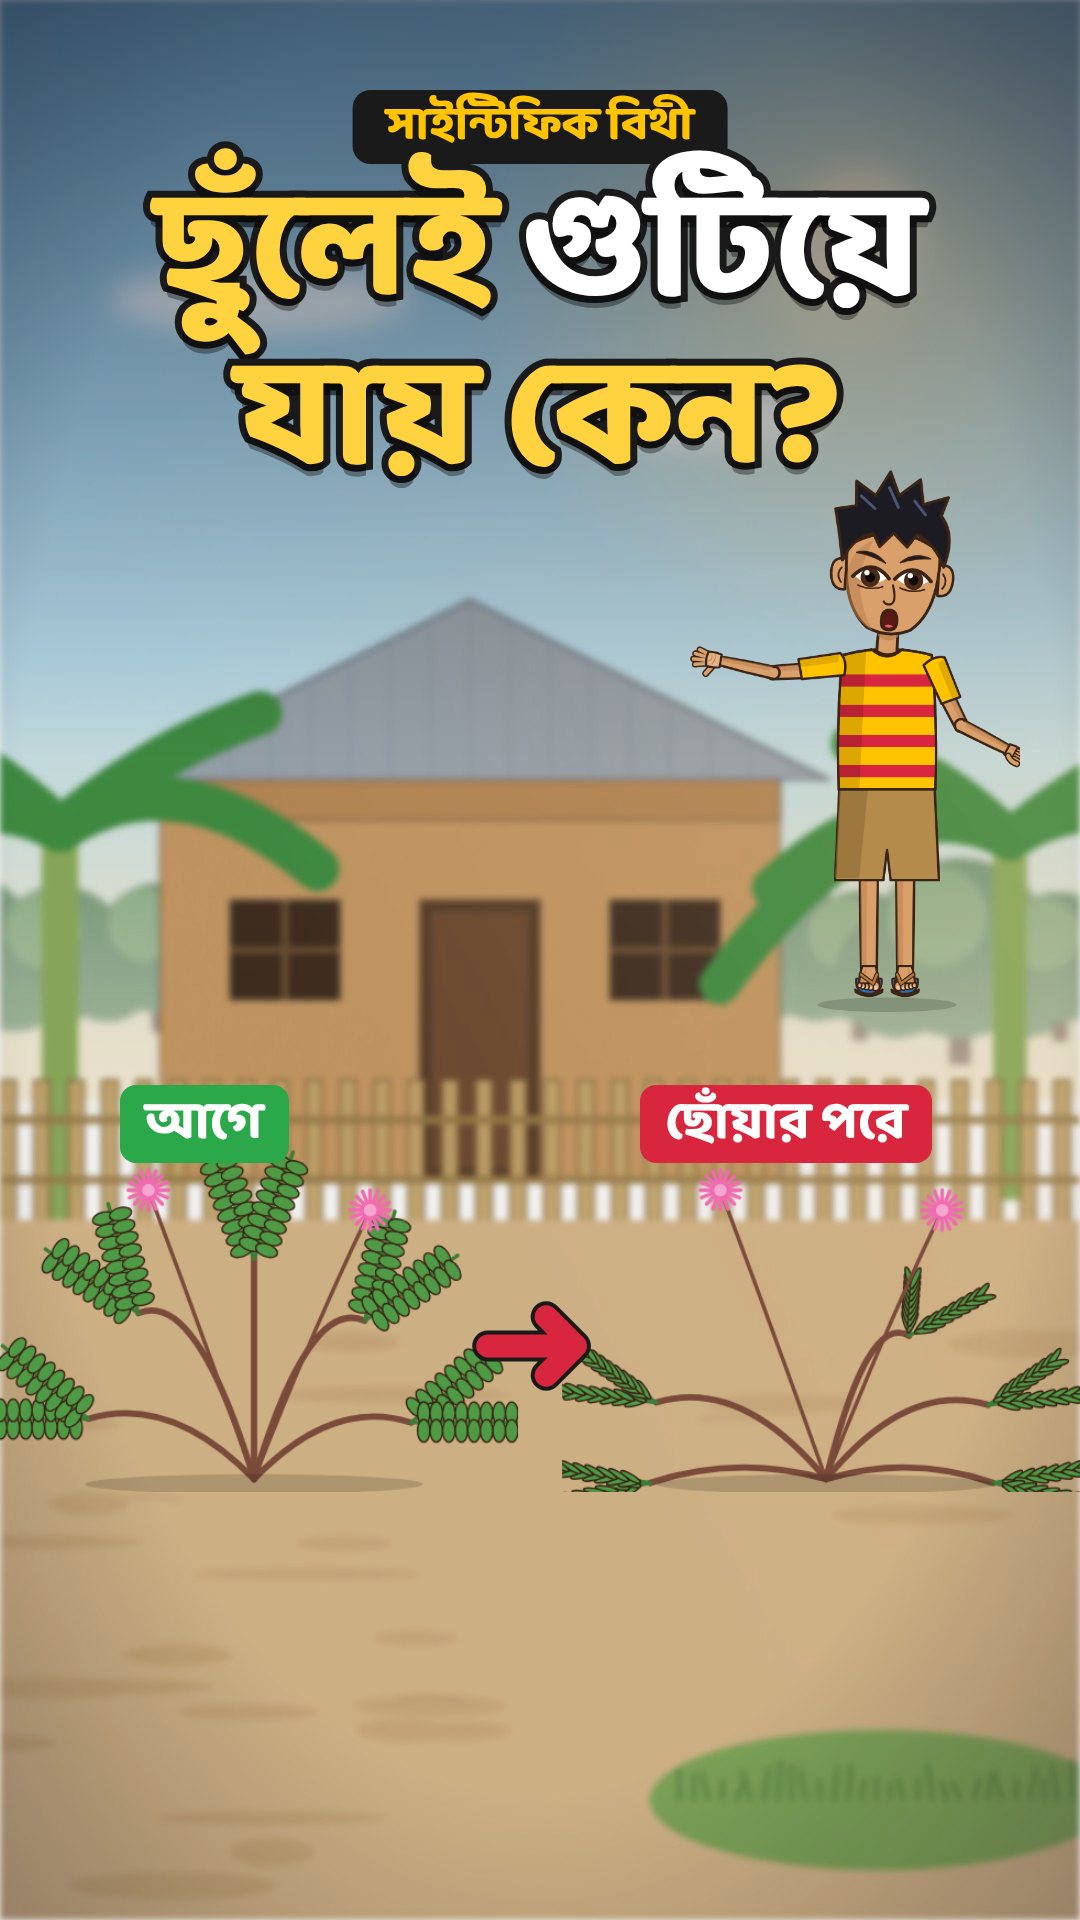
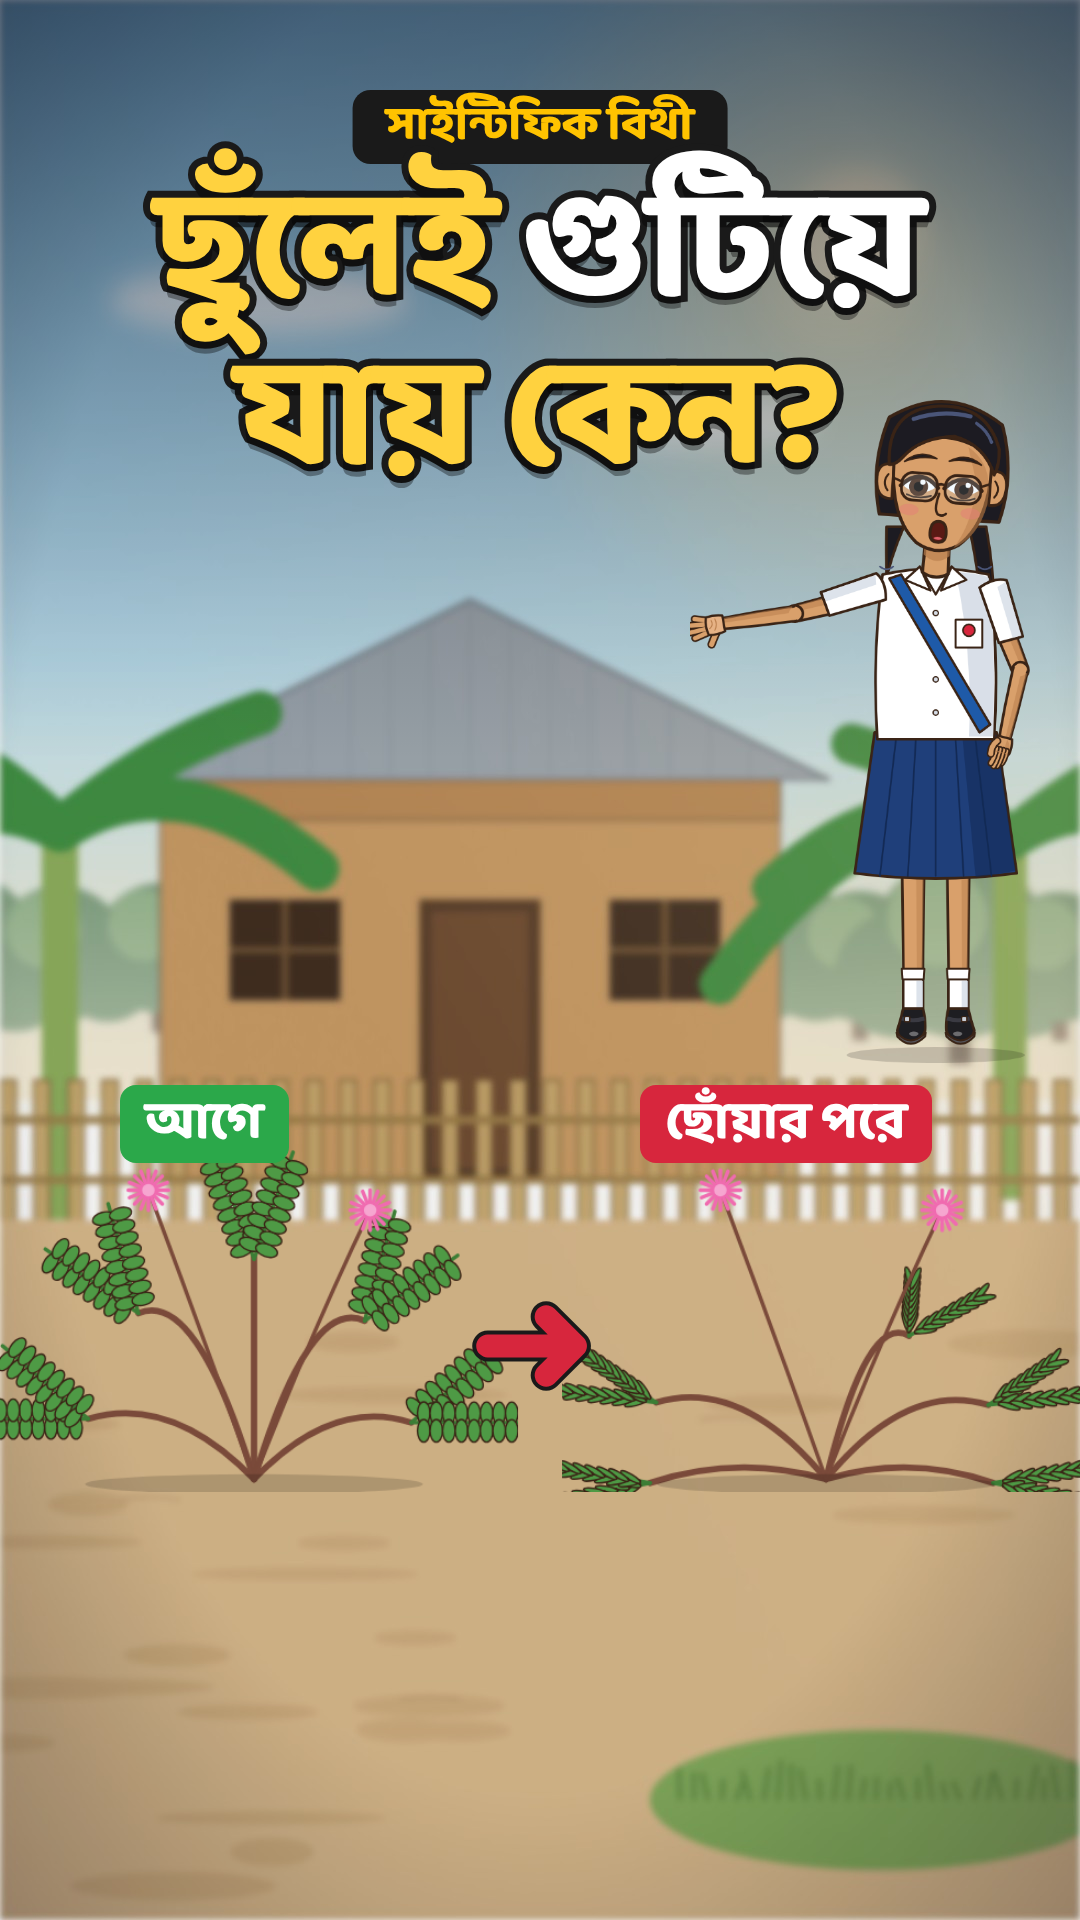
Scientific Bithi thumbnails: Bithi on every thumbnail, plus the scientist when one appears; lojjaboti preview redone with Bithi
Claude-Session: https://claude.ai/code/session_013kyRnWsyjdkkzRgMQR7nRm

Changed region(s): [[0.6417, 0.1875, 0.9472, 0.5625]]

diff --git a/social/bangla-science-channel/kit/thumbnail/preview_template.html b/social/bangla-science-channel/kit/thumbnail/preview_template.html
@@ -20,5 +20,5 @@ body{margin:0} .s{position:relative;width:1080px;height:1920px;overflow:hidden;f
 <div class="lbl" style="left:120px;top:1085px;background:#2BA84A">আগে</div>
 <div class="lbl" style="left:640px;top:1085px;background:#D7263D">ছোঁয়ার পরে</div>
 <div class="arrow">➜</div>
-<img src="boltu.png" style="position:absolute;left:690px;top:470px;width:330px;transform:scaleX(-1)">
+<img src="bithi.png" style="position:absolute;left:690px;top:400px;width:340px">
 </div></body></html>

diff --git a/social/bangla-science-channel/kit/thumbnail/README.md b/social/bangla-science-channel/kit/thumbnail/README.md
@@ -5,11 +5,12 @@ Every Short gets a 9:16 cover (1080×1920) that tells viewers at a glance what t
 ## Design
 - **Hook question** at the top in big Bangla (Baloo Da 2 / Hind Siliguri, white + yellow with a thick dark outline). 2–5 words, about the actual mystery of the video, e.g. "ছুঁলেই গুটিয়ে যায় কেন?". It never just repeats the title, and never makes a misleading claim.
 - A small "সাইন্টিফিক বিথী" badge above it.
-- **The picture tells the story:** the key object large (before → after with "আগে" / "পরে" tags and a red arrow when there is a change), plus one character with a strong expression (shocked বল্টু, confused মামা, or the scientist on scientist days).
+- **The picture tells the story:** the key object large (before → after with "আগে" / "পরে" tags and a red arrow when there is a change).
+- **Characters (owner rule 2026-11-09): বিথী is on EVERY thumbnail**, with an expressive pose (surprised, pointing at the object, curious). On days when a scientist appears in the video, put the scientist on the thumbnail too, next to বিথী. No other characters are needed.
 - The **bottom ~400 px stays clear** (Facebook puts the caption and buttons there). Everything stays inside the frame. No borders.
 
 ## How
-1. Export the art layers from the kit as transparent PNGs: background, story object, character pose (see `../../episodes/short-03/thumbnail/` for the লজ্জাবতী layers).
+1. Export the art layers from the kit as transparent PNGs: background, story object, বিথী pose (and the scientist on scientist days; see `../../episodes/short-03/thumbnail/` for the লজ্জাবতী layers).
 2. In the Figma file "Scientific Bithi — Scientist Cameos" (https://www.figma.com/design/p7WBHQcFJpfyTNbWtS8Nsd), on the **Thumbnails** page:
    - create a 1080×1920 frame named `<short>-thumb`, upload the layers (`upload_assets`) and place them;
    - add the hook text and the badge as live text (`use_figma`);
